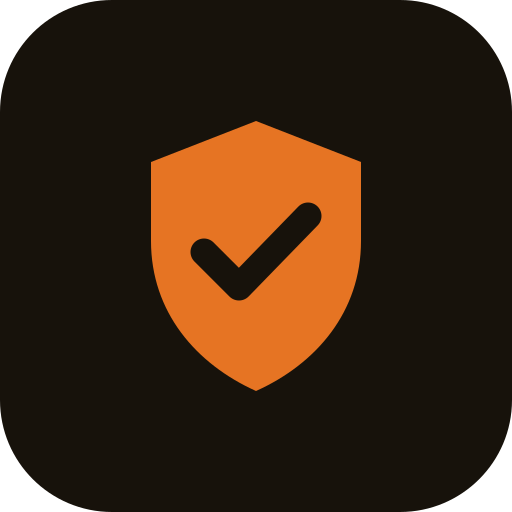
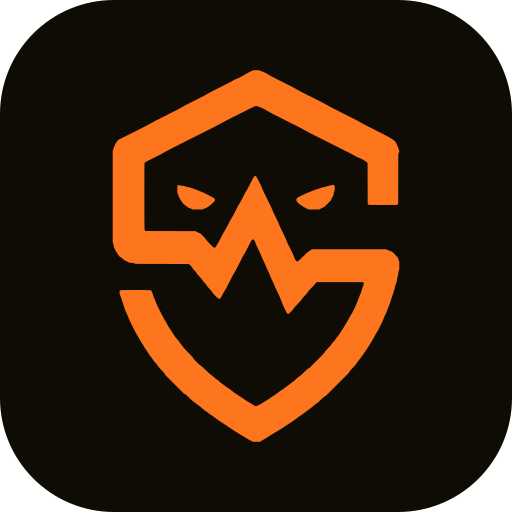
brand: replace the beacon dot with the shield mark
The header and footer lockups carried a pulsing CSS dot, not a logo. They
now carry the real mark, inline so it inherits currentColor and works on
both themes.

Three things the artwork needed before it could sit next to the wordmark:

- The delivered 0 0 512 512 viewBox is ~13% empty on each side. Measured
  with getBBox and cropped to the ink, so a CSS height is the height of
  the drawing and the gap to the wordmark is the gap it looks like.

- Cap height for this font stack measures 0.7254em, not the 0.72em the
  brief estimated. Sized at 0.725em on align-items: baseline, which puts
  the foot on the baseline (0.00px) and the top on the cap line (0.02px).

- Rasterised at 13/16/20/24px, the full drawing silts up below ~24px, and
  the header needs 13px. The path splits into exactly three subpaths --
  outline plus the two eye counters -- so the simple variant drops the
  eyes and fattens what is left. Header, footer and the 32px favicon use
  it; the larger icons and the OG lockup keep the full drawing.

The beacon's ping survives as a radial halo behind the shield, reusing its
2.6s duration, its easing and its prefers-reduced-motion block. The dot
itself stays where it still reads as a live indicator, in the digest mock.

Geometry lives in one module, so the icon generator and the components
draw from the same source, and npm run og rebuilds every raster from it.
The path is defined once per page as a <symbol> and referenced with <use>:
[…]

diff --git a/src/data/brandmark.js b/src/data/brandmark.js
@@ -1,0 +1,78 @@
+// Brand mark geometry — the Sentinely shield.
+//
+// Source of truth: docs/brand/sentinely-mono.svg (single compact path,
+// fill-rule evenodd). Regenerate this file from it if the artwork changes.
+//
+// Two variants, because the mark has to survive being set at cap height:
+//
+//  · markFull   — the drawing as delivered: shield, eyes, pulse line. Legible
+//                  from roughly 24px tall upwards.
+//  · markSimple — the same outline with the two eye counters dropped and the
+//                  remaining strokes fattened (a stroke painted in the fill
+//                  colour). Holds together down to ~13px, which is what the
+//                  header needs. Below ~20px tall, use this one.
+//
+// Both viewBoxes are cropped to the ink — the delivered 0 0 512 512 box carries
+// ~13% empty margin on each side, which would push the wordmark away and make
+// the mark read optically smaller than the S it sits next to. Cropping means a
+// CSS height is exactly the height of the drawing (the simple variant's box is
+// grown by half the stroke width so the fattened edge is not clipped).
+
+/** @typedef {{ id: string, viewBox: string, d: string, strokeWidth: number, ratio: number }} MarkVariant */
+
+const SIMPLE_STROKE = 16;
+
+/** @type {MarkVariant} */
+export const markFull = {
+  id: 'brandmark-full',
+  viewBox: '67 11 378 490',
+  strokeWidth: 0,
+  ratio: 378 / 490,
+  d: 'M251.99 11.48c-1.7.56-9.74 4.76-10.92 5.71-1.56 1.27-9.89 5.45-11.7 5.9a7 7 0 0 0-3.41 1.71c-.73.58-5.69 3.18-16.98 8.81-12.45 6.23-16.21 8.19-17.17 8.96-.95.76-4.72 2.72-17.16 8.95s-16.22 8.19-17.17 8.96c-.95.76-5.24 2.98-20.15 10.45s-19.2 9.68-20.15 10.45-5.54 3.13-21.83 11.29l-20.62 10.31-1.25 1.31c-1.44 1.49-4.46 7.24-4.82 9.14-.09.54-.44 1.59-.78 2.34l-.61 1.34V238.2l.61 1.39a8 8 0 0 1 .78 3.07l.17 1.7 1.66 3.36a31 31 0 0 0 2.63 4.55c.53.68 1.27 1.78 1.65 2.49.74 1.43 1.32 1.97 2.87 2.78.6.29 1.94 1.3 2.99 2.23l1.88 1.7 3.43 1.7 3.42 1.68 2.39.13 2.38.13 1.4.64 1.4.63 35.17.09 35.18.1.74.39c1.1.6 2.95 2.61 3.64 3.97.39.8 1.33 1.96 2.91 3.68a22 22 0 0 1 3.12 3.88c.58 1.04 1.57 2.22 3.81 4.57 2.22 2.33 3.17 3.47 3.6 4.31q.57 1.15 2.91 3.66a23 23 0 0 1 3.11 3.88c.58 1.04 1.55 2.22 3.79 4.55 2.33 2.45 3.17 3.45 3.71 4.5.97 1.85 6.96 7.91 8.12 8.23 1.94.52 2.54-.08 5.11-5.19a42 42 0 0 1 3.1-5.45c.73-.91 2.24-3.73 5.97-11.19 3.75-7.5 5.24-10.28 5.97-11.2.75-.93 2.35-3.95 6.72-12.69 4.37-8.71 5.97-11.77 6.72-12.68.71-.9 2.1-3.49 5.33-9.93 4.74-9.44 4.91-9.7 6.33-9.7 1.27 0 2.83 2.25 3.26 4.7.13.73 1.24 3.15 3.74 8.21 2.5 5.05 3.6 7.48 3.73 8.21.13.71 1.06 2.82 2.98 6.71s2.86 6.01 2.99 6.72 1.06 2.84 2.98 6.72c1.93 3.88 2.86 6.01 2.99 6.72s1.06 2.83 2.98 6.71c1.93 3.9 2.86 6.01 2.99 6.72.13.73 1.23 3.15 3.73 8.21 2.48 5 3.6 7.5 3.73 8.21.12.58.77 2.2 1.5 3.73a23 23 0 0 1 1.49 3.73c.2 1.25 5.32 11.63 6.04 12.3.88.82 1.74.63 3.29-.75 2.26-2.01 4.98-5.11 5.61-6.34.45-.91 1.52-2.11 5.12-5.8 3.77-3.87 4.66-4.89 5.24-5.99.52-1.01 1.4-2.05 3.69-4.46 2.24-2.33 3.21-3.51 3.79-4.55.66-1.16 1.61-2.24 5.11-5.83 2.65-2.7 4.65-4.9 5.14-5.67a7 7 0 0 1 1.32-1.58l.5-.34 29.78-.06c16.37-.03 30.14 0 30.59.06q2.44.38 1.3 3.3c-.2.52-.45 1.38-.54 1.87-.11.5-.43 1.49-.75 2.2-.31.71-.65 1.72-.74 2.24s-.43 1.53-.75 2.24-.65 1.73-.74 2.27c-.12.55-.79 2.21-1.5 3.7a24 24 0 0 0-1.49 3.73c-.11.56-.78 2.24-1.49 3.73a23 23 0 0 0-1.5 3.73c-.26 1.53-6.15 13.33-7.46 14.93a38 38 0 0 0-2.98 5.23 37 37 0 0 1-2.99 5.22 26 26 0 0 0-2.24 3.73 26 26 0 0 1-2.24 3.73c-.54.68-1.21 1.68-1.49 2.24s-.95 1.57-1.49 2.24-1.22 1.7-1.51 2.28c-.3.6-1.31 1.92-2.22 2.95a17 17 0 0 0-2.24 3q-.59 1.13-2.99 3.71c-1.62 1.76-2.59 2.97-2.98 3.74-.45.89-1.46 2.05-4.41 5.09-3.1 3.21-3.94 4.18-4.48 5.26-.61 1.18-1.64 2.28-10.11 10.77l-9.44 9.46-1.46.78c-1.25.67-2.12 1.44-6 5.24-3.72 3.62-4.84 4.61-5.98 5.25-1.04.58-2.22 1.56-4.57 3.8-2.29 2.19-3.47 3.18-4.29 3.61a18 18 0 0 0-3 2.23 19 19 0 0 1-2.99 2.24c-.61.32-1.96 1.33-2.98 2.24a19 19 0 0 1-2.95 2.22c-.58.3-1.61.97-2.28 1.51-.67.55-1.7 1.22-2.27 1.52-.6.29-1.93 1.3-2.95 2.22a20 20 0 0 1-2.95 2.22c-.58.29-1.6.97-2.28 1.51s-1.68 1.21-2.24 1.49-1.56.95-2.23 1.49c-.68.54-1.68 1.22-2.24 1.5s-1.57.95-2.24 1.49a26 26 0 0 1-3.73 2.24 27 27 0 0 0-3.74 2.24c-1.77 1.43-6.27 3.62-7.42 3.62s-2.91-.82-4.52-2.13a26 26 0 0 0-3.73-2.24 26 26 0 0 1-3.73-2.24 16 16 0 0 0-2.24-1.49c-.56-.28-1.57-.95-2.24-1.49a15 15 0 0 0-2.24-1.5c-.56-.28-1.57-.95-2.24-1.49a16 16 0 0 0-2.24-1.49c-.56-.28-1.56-.95-2.24-1.5a17 17 0 0 0-2.27-1.51c-.6-.3-1.92-1.3-2.95-2.22a20 20 0 0 0-2.95-2.22c-.58-.3-1.6-.97-2.28-1.51a17 17 0 0 0-2.27-1.51c-.6-.3-1.92-1.31-2.95-2.22a19 19 0 0 0-3-2.24q-1.13-.58-3.72-2.98-2.59-2.43-3.73-2.99t-3.73-2.99a21 21 0 0 0-3.75-3c-.95-.47-2.15-1.55-6.53-5.84-4.7-4.61-5.54-5.36-6.85-6.06-2.14-1.16-9.5-8.55-10.58-10.62-.63-1.21-1.44-2.11-6.73-7.48-4.95-5.02-6.11-6.31-6.59-7.26a19 19 0 0 0-2.26-3.02 19 19 0 0 1-2.24-3.01 22 22 0 0 0-2.98-3.71c-1.55-1.66-2.62-2.97-2.95-3.68-.32-.59-.99-1.62-1.53-2.29a16 16 0 0 1-1.49-2.24 16 16 0 0 0-1.5-2.24 16 16 0 0 1-1.49-2.24c-.28-.56-.95-1.57-1.49-2.24-.62-.76-1.7-2.67-2.99-5.22a39 39 0 0 0-2.98-5.23c-1.33-1.64-11.68-22.33-11.94-23.88-.12-.58-.75-2.2-1.5-3.73a26 26 0 0 1-1.49-3.7c-.09-.54-.43-1.56-.75-2.27-.31-.71-.65-1.72-.74-2.26-.36-1.87-1.38-3.08-2.97-3.53-1.03-.28-37.99-.22-38.81.06-1.61.56-1.96 3.1-.8 5.67.33.75.69 1.77.78 2.3s.43 1.53.75 2.23c.31.71.65 1.72.74 2.24.1.53.43 1.53.75 2.24s.65 1.72.75 2.24.43 1.53.74 2.24c.32.71.66 1.72.75 2.24s.43 1.53.75 2.24c.31.71.65 1.73.74 2.28.11.59.99 2.64 2.24 5.18 1.34 2.75 2.13 4.56 2.24 5.23.26 1.55 10.6 22.22 11.94 23.88a26 26 0 0 1 2.24 3.73 26 26 0 0 0 2.24 3.73 27 27 0 0 1 2.24 3.74 26 26 0 0 0 2.24 3.73c.54.67 1.21 1.68 1.49 2.24s.95 1.56 1.49 2.24c.54.67 1.22 1.67 1.5 2.23s.95 1.57 1.49 2.24 1.21 1.7 1.51 2.28c.3.6 1.31 1.92 2.22 2.95a19 19 0 0 1 2.24 3q.59 1.14 2.97 3.7a22 22 0 0 1 3.08 3.86c.54 1.04 1.43 2.09 4.45 5.22 3.18 3.27 3.92 4.15 4.52 5.3l.73 1.4 12.22 12.24 12.24 12.22 1.4.73c1.21.62 2.03 1.35 6.03 5.24 3.82 3.74 4.87 4.65 5.95 5.21.73.39 2.11 1.4 3.15 2.35 1.03.92 2.37 1.92 2.99 2.22q1.12.58 3.71 2.99a22 22 0 0 0 3.71 2.98c.62.3 1.98 1.33 3.01 2.24s2.35 1.92 2.95 2.22c.57.3 1.6.97 2.27 1.51s1.7 1.22 2.28 1.52c.6.29 1.92 1.3 2.95 2.22a20 20 0 0 0 2.94 2.22c.58.29 1.61.97 2.28 1.51s1.68 1.21 2.24 1.49 1.57.95 2.24 1.49a16 16 0 0 0 2.24 1.5c.56.28 1.57.95 2.24 1.49s1.68 1.21 2.24 1.49 1.56.95 2.23 1.49c.68.54 1.68 1.22 2.24 1.5s1.57.95 2.24 1.49 1.68 1.21 2.24 1.49 1.57.95 2.24 1.49a25 25 0 0 0 3.73 2.24 26 26 0 0 1 3.73 2.24 27 27 0 0 0 3.74 2.24 26 26 0 0 1 3.73 2.24c.76.62 2.5 1.62 4.64 2.69l3.44 1.7h9.18l.65-.36c.36-.19 1.12-.73 1.68-1.19s2.15-1.4 3.55-2.09a26 26 0 0 0 3.73-2.24c.67-.54 1.68-1.21 2.24-1.49s1.56-.96 2.24-1.5a26 26 0 0 1 3.73-2.24 25 25 0 0 0 3.73-2.24 26 26 0 0 1 3.73-2.23c1.38-.7 3.06-1.7 3.73-2.24a16 16 0 0 1 2.24-1.5c.56-.28 1.57-.95 2.24-1.49s1.68-1.21 2.24-1.49 1.57-.95 2.24-1.49c.67-.55 1.68-1.22 2.24-1.5s1.57-.95 2.24-1.49a17 17 0 0 1 2.27-1.51 19 19 0 0 0 2.95-2.22 19 19 0 0 1 2.95-2.22c.58-.3 1.6-.97 2.28-1.51s1.69-1.22 2.27-1.51c.6-.3 1.92-1.31 2.95-2.23a19 19 0 0 1 2.99-2.23c.61-.32 1.95-1.33 2.98-2.24a18 18 0 0 1 3.01-2.24q1.12-.58 3.69-2.97a22 22 0 0 1 3.86-3.08c1.05-.54 2.09-1.43 5.23-4.46 3.28-3.19 4.14-3.92 5.3-4.51l1.4-.73 15.22-15.21 15.21-15.22.73-1.4c.59-1.16 1.32-2.02 4.51-5.3 3-3.12 3.92-4.2 4.46-5.21.37-.71 1.4-2.09 2.33-3.13a19 19 0 0 0 2.22-2.97c.32-.61 1.33-1.96 2.24-2.98a19 19 0 0 0 2.22-2.95c.3-.58.97-1.61 1.51-2.28.55-.67 1.22-1.68 1.5-2.24s.95-1.57 1.49-2.24 1.21-1.68 1.49-2.24.95-1.56 1.49-2.24a25 25 0 0 0 2.24-3.73 26 26 0 0 1 2.24-3.73c.62-.76 1.7-2.67 2.99-5.22a39 39 0 0 1 2.98-5.23c1.33-1.64 8.7-16.38 8.96-17.91.11-.67.9-2.48 2.24-5.22 1.31-2.67 2.13-4.58 2.24-5.23.11-.58.76-2.22 1.49-3.73a25 25 0 0 0 1.49-3.7c.1-.54.43-1.56.75-2.27s.65-1.72.75-2.24.43-1.53.74-2.24c.32-.71.66-1.72.75-2.24s.43-1.53.75-2.24c.31-.71.65-1.71.74-2.24.1-.52.43-1.53.75-2.24s.65-1.71.74-2.24c.1-.52.45-1.54.77-2.27.41-.93.62-1.77.73-2.95s.31-2.02.72-2.95c.32-.73.68-1.75.77-2.27.09-.53.45-1.55.76-2.3.55-1.19.62-1.6.73-3.68s.19-2.48.75-3.73.63-1.64.75-3.73l.13-2.33.63-1.4.63-1.4v-10.64l-.61-1.34a12 12 0 0 1-.78-2.28c-.3-1.6-.83-2.31-4.2-5.67l-3.27-3.26-1.81-.94a18 18 0 0 0-3.34-1.32c-.82-.21-1.99-.62-2.61-.9l-1.1-.52H329.8l-.66.36c-.35.18-1.1.72-1.64 1.15-.54.45-1.59 1.12-2.31 1.51-1.12.58-2.19 1.53-7.35 6.63-6.96 6.86-7.15 6.99-8.98 5.63-.76-.58-2.59-4.21-2.85-5.67-.13-.75-1.55-3.81-5.23-11.19-3.69-7.45-5.09-10.45-5.22-11.2s-1.37-3.43-4.48-9.7c-3.1-6.27-4.35-8.96-4.48-9.71-.13-.74-1.38-3.43-4.48-9.7-3.11-6.29-4.35-8.95-4.48-9.7-.13-.77-1.84-4.4-6.71-14.18-4.89-9.85-6.59-13.42-6.72-14.18-.22-1.38-7.44-15.9-8.12-16.35-.69-.45-1.68-.37-2.42.21-.54.41-1.4 1.99-5.02 9.2-3.23 6.43-4.63 9.03-5.34 9.92-.71.88-1.96 3.19-4.48 8.21-2.52 5.04-3.77 7.34-4.47 8.21-.73.9-2.09 3.44-5.23 9.71-3.13 6.27-4.5 8.8-5.22 9.7-.71.88-1.96 3.17-4.48 8.21s-3.77 7.33-4.48 8.21-1.96 3.17-4.48 8.21c-2.48 4.94-3.79 7.35-4.46 8.19-.52.65-1.47 2.2-2.11 3.43-1.34 2.6-1.62 2.84-3.11 2.76-.84-.03-10.26-9.62-11.22-11.42-.65-1.21-1.26-1.9-3.62-4.21l-2.81-2.76-3.44-1.68-3.43-1.68-32.9-.1-32.89-.09-.52-.39a2.6 2.6 0 0 1-.75-1.03c-.3-.84-.34-86.84-.06-87.9.32-1.1.79-1.36 13.79-7.87 9.52-4.78 12.71-6.46 13.64-7.21.97-.78 8.12-4.42 36.57-18.65 28.52-14.26 35.61-17.88 36.58-18.66 1.28-1.03 43.84-22.51 45.49-22.93 2.01-.56 12.14 3.63 15.71 6.51.97.78 6.02 3.37 24.63 12.69 18.62 9.31 23.66 11.9 24.63 12.68.97.79 7.55 4.15 33.58 17.17 23.64 11.83 32.66 16.42 33.4 17.02a7 7 0 0 0 3.42 1.71c1.64.39 7.2 3.17 8.52 4.26.56.46 1.52 1.14 2.09 1.51a5 5 0 0 1 1.4 1.19l.34.51.09 26.81.1 26.83.39.52c.72.99.31.97 19.66.97s18.94.02 19.67-.97l.39-.52.1-32.88.09-32.87.61-1.35c.79-1.75.81-2.8.04-4.53-.32-.71-.65-1.74-.74-2.28-.12-.58-.88-2.4-1.87-4.42-2.3-4.63-3.02-5.41-6.9-7.37a31 31 0 0 1-3.92-2.35c-.95-.77-5.08-2.91-18.66-9.7-13.68-6.85-17.71-8.94-18.66-9.71-.95-.76-5.49-3.11-21.64-11.19-16.16-8.08-20.7-10.43-21.65-11.2s-5.24-2.98-20.15-10.45-19.2-9.68-20.15-10.44c-.95-.77-4.98-2.86-18.66-9.71-13.68-6.83-17.71-8.93-18.66-9.7-1.6-1.29-6.94-3.96-8.9-4.46-.82-.2-1.98-.61-2.59-.89l-1.1-.53-3.55-.03c-2.52-.04-3.75.01-4.29.2m104.02 150.95c-.35.13-.99.39-1.38.58-.41.17-1.47.39-2.37.47-1.16.11-2 .31-2.97.74s-1.81.64-3 .75q-1.66.17-2.72.63c-.58.28-1.72.67-2.54.88s-1.81.54-2.18.73-1.39.52-2.24.74c-.86.23-1.87.56-2.24.75s-1.38.52-2.24.75c-.84.22-2.52.87-3.73 1.49-1.22.6-2.9 1.27-3.74 1.49-1.56.39-12.8 5.84-14.14 6.85a3.8 3.8 0 0 0-.99 4.5c.58 1.1 4.05 4.38 5.34 5.03.61.3 1.66.99 2.33 1.53.77.62 2.5 1.63 4.65 2.69l3.43 1.7h13.71l3.66-1.83 3.66-1.81 4.1-4.1 4.11-4.11 1.77-3.6 1.79-3.58.17-1.7c.11-1.31.3-2.03.77-3.08l.61-1.38.08-2.29c.13-4.04-.19-4.84-2.02-5.01a4 4 0 0 0-1.68.19m-202.43.09c-.24.08-.63.36-.84.64l-.39.52v8.85l.62 1.34c.33.75.69 1.79.78 2.33.26 1.38 1.83 4.5 2.98 5.93a14 14 0 0 1 1.53 2.34c.83 1.62 4.09 4.89 5.77 5.78.69.36 1.72 1.03 2.26 1.48a6.6 6.6 0 0 0 3.13 1.6c.56.13 1.63.49 2.34.82l1.3.58h12.13l1.31-.58c.72-.33 1.77-.69 2.33-.82 1.3-.3 1.9-.62 3.15-1.62.56-.47 1.51-1.09 2.13-1.38 1.21-.62 5.24-4.26 6.96-6.29 1.45-1.7 1.36-2.48-.45-4.18-1.31-1.23-15.47-8.34-17.76-8.92a26 26 0 0 1-3.73-1.49 24 24 0 0 0-3.74-1.5c-.85-.22-1.86-.56-2.24-.74-.37-.19-1.36-.52-2.18-.73s-1.96-.6-2.54-.88a9 9 0 0 0-2.72-.63 9 9 0 0 1-3.02-.77c-1.23-.54-1.65-.61-3.72-.72a15 15 0 0 1-2.89-.38c-1.12-.46-2.07-.69-2.5-.58',
+};
+
+/** @type {MarkVariant} */
+export const markSimple = {
+  id: 'brandmark-simple',
+  viewBox: `${67 - SIMPLE_STROKE / 2} ${11 - SIMPLE_STROKE / 2} ${378 + SIMPLE_STROKE} ${490 + SIMPLE_STROKE}`,
+  strokeWidth: SIMPLE_STROKE,
+  ratio: (378 + SIMPLE_STROKE) / (490 + SIMPLE_STROKE),
+  d: 'M251.99 11.48c-1.7.56-9.74 4.76-10.92 5.71-1.56 1.27-9.89 5.45-11.7 5.9a7 7 0 0 0-3.41 1.71c-.73.58-5.69 3.18-16.98 8.81-12.45 6.23-16.21 8.19-17.17 8.96-.95.76-4.72 2.72-17.16 8.95s-16.22 8.19-17.17 8.96c-.95.76-5.24 2.98-20.15 10.45s-19.2 9.68-20.15 10.45-5.54 3.13-21.83 11.29l-20.62 10.31-1.25 1.31c-1.44 1.49-4.46 7.24-4.82 9.14-.09.54-.44 1.59-.78 2.34l-.61 1.34V238.2l.61 1.39a8 8 0 0 1 .78 3.07l.17 1.7 1.66 3.36a31 31 0 0 0 2.63 4.55c.53.68 1.27 1.78 1.65 2.49.74 1.43 1.32 1.97 2.87 2.78.6.29 1.94 1.3 2.99 2.23l1.88 1.7 3.43 1.7 3.42 1.68 2.39.13 2.38.13 1.4.64 1.4.63 35.17.09 35.18.1.74.39c1.1.6 2.95 2.61 3.64 3.97.39.8 1.33 1.96 2.91 3.68a22 22 0 0 1 3.12 3.88c.58 1.04 1.57 2.22 3.81 4.57 2.22 2.33 3.17 3.47 3.6 4.31q.57 1.15 2.91 3.66a23 23 0 0 1 3.11 3.88c.58 1.04 1.55 2.22 3.79 4.55 2.33 2.45 3.17 3.45 3.71 4.5.97 1.85 6.96 7.91 8.12 8.23 1.94.52 2.54-.08 5.11-5.19a42 42 0 0 1 3.1-5.45c.73-.91 2.24-3.73 5.97-11.19 3.75-7.5 5.24-10.28 5.97-11.2.75-.93 2.35-3.95 6.72-12.69 4.37-8.71 5.97-11.77 6.72-12.68.71-.9 2.1-3.49 5.33-9.93 4.74-9.44 4.91-9.7 6.33-9.7 1.27 0 2.83 2.25 3.26 4.7.13.73 1.24 3.15 3.74 8.21 2.5 5.05 3.6 7.48 3.73 8.21.13.71 1.06 2.82 2.98 6.71s2.86 6.01 2.99 6.72 1.06 2.84 2.98 6.72c1.93 3.88 2.86 6.01 2.99 6.72s1.06 2.83 2.98 6.71c1.93 3.9 2.86 6.01 2.99 6.72.13.73 1.23 3.15 3.73 8.21 2.48 5 3.6 7.5 3.73 8.21.12.58.77 2.2 1.5 3.73a23 23 0 0 1 1.49 3.73c.2 1.25 5.32 11.63 6.04 12.3.88.82 1.74.63 3.29-.75 2.26-2.01 4.98-5.11 5.61-6.34.45-.91 1.52-2.11 5.12-5.8 3.77-3.87 4.66-4.89 5.24-5.99.52-1.01 1.4-2.05 3.69-4.46 2.24-2.33 3.21-3.51 3.79-4.55.66-1.16 1.61-2.24 5.11-5.83 2.65-2.7 4.65-4.9 5.14-5.67a7 7 0 0 1 1.32-1.58l.5-.34 29.78-.06c16.37-.03 30.14 0 30.59.06q2.44.38 1.3 3.3c-.2.52-.45 1.38-.54 1.87-.11.5-.43 1.49-.75 2.2-.31.71-.65 1.72-.74 2.24s-.43 1.53-.75 2.24-.65 1.73-.74 2.27c-.12.55-.79 2.21-1.5 3.7a24 24 0 0 0-1.49 3.73c-.11.56-.78 2.24-1.49 3.73a23 23 0 0 0-1.5 3.73c-.26 1.53-6.15 13.33-7.46 14.93a38 38 0 0 0-2.98 5.23 37 37 0 0 1-2.99 5.22 26 26 0 0 0-2.24 3.73 26 26 0 0 1-2.24 3.73c-.54.68-1.21 1.68-1.49 2.24s-.95 1.57-1.49 2.24-1.22 1.7-1.51 2.28c-.3.6-1.31 1.92-2.22 2.95a17 17 0 0 0-2.24 3q-.59 1.13-2.99 3.71c-1.62 1.76-2.59 2.97-2.98 3.74-.45.89-1.46 2.05-4.41 5.09-3.1 3.21-3.94 4.18-4.48 5.26-.61 1.18-1.64 2.28-10.11 10.77l-9.44 9.46-1.46.78c-1.25.67-2.12 1.44-6 5.24-3.72 3.62-4.84 4.61-5.98 5.25-1.04.58-2.22 1.56-4.57 3.8-2.29 2.19-3.47 3.18-4.29 3.61a18 18 0 0 0-3 2.23 19 19 0 0 1-2.99 2.24c-.61.32-1.96 1.33-2.98 2.24a19 19 0 0 1-2.95 2.22c-.58.3-1.61.97-2.28 1.51-.67.55-1.7 1.22-2.27 1.52-.6.29-1.93 1.3-2.95 2.22a20 20 0 0 1-2.95 2.22c-.58.29-1.6.97-2.28 1.51s-1.68 1.21-2.24 1.49-1.56.95-2.23 1.49c-.68.54-1.68 1.22-2.24 1.5s-1.57.95-2.24 1.49a26 26 0 0 1-3.73 2.24 27 27 0 0 0-3.74 2.24c-1.77 1.43-6.27 3.62-7.42 3.62s-2.91-.82-4.52-2.13a26 26 0 0 0-3.73-2.24 26 26 0 0 1-3.73-2.24 16 16 0 0 0-2.24-1.49c-.56-.28-1.57-.95-2.24-1.49a15 15 0 0 0-2.24-1.5c-.56-.28-1.57-.95-2.24-1.49a16 16 0 0 0-2.24-1.49c-.56-.28-1.56-.95-2.24-1.5a17 17 0 0 0-2.27-1.51c-.6-.3-1.92-1.3-2.95-2.22a20 20 0 0 0-2.95-2.22c-.58-.3-1.6-.97-2.28-1.51a17 17 0 0 0-2.27-1.51c-.6-.3-1.92-1.31-2.95-2.22a19 19 0 0 0-3-2.24q-1.13-.58-3.72-2.98-2.59-2.43-3.73-2.99t-3.73-2.99a21 21 0 0 0-3.75-3c-.95-.47-2.15-1.55-6.53-5.84-4.7-4.61-5.54-5.36-6.85-6.06-2.14-1.16-9.5-8.55-10.58-10.62-.63-1.21-1.44-2.11-6.73-7.48-4.95-5.02-6.11-6.31-6.59-7.26a19 19 0 0 0-2.26-3.02 19 19 0 0 1-2.24-3.01 22 22 0 0 0-2.98-3.71c-1.55-1.66-2.62-2.97-2.95-3.68-.32-.59-.99-1.62-1.53-2.29a16 16 0 0 1-1.49-2.24 16 16 0 0 0-1.5-2.24 16 16 0 0 1-1.49-2.24c-.28-.56-.95-1.57-1.49-2.24-.62-.76-1.7-2.67-2.99-5.22a39 39 0 0 0-2.98-5.23c-1.33-1.64-11.68-22.33-11.94-23.88-.12-.58-.75-2.2-1.5-3.73a26 26 0 0 1-1.49-3.7c-.09-.54-.43-1.56-.75-2.27-.31-.71-.65-1.72-.74-2.26-.36-1.87-1.38-3.08-2.97-3.53-1.03-.28-37.99-.22-38.81.06-1.61.56-1.96 3.1-.8 5.67.33.75.69 1.77.78 2.3s.43 1.53.75 2.23c.31.71.65 1.72.74 2.24.1.53.43 1.53.75 2.24s.65 1.72.75 2.24.43 1.53.74 2.24c.32.71.66 1.72.75 2.24s.43 1.53.75 2.24c.31.71.65 1.73.74 2.28.11.59.99 2.64 2.24 5.18 1.34 2.75 2.13 4.56 2.24 5.23.26 1.55 10.6 22.22 11.94 23.88a26 26 0 0 1 2.24 3.73 26 26 0 0 0 2.24 3.73 27 27 0 0 1 2.24 3.74 26 26 0 0 0 2.24 3.73c.54.67 1.21 1.68 1.49 2.24s.95 1.56 1.49 2.24c.54.67 1.22 1.67 1.5 2.23s.95 1.57 1.49 2.24 1.21 1.7 1.51 2.28c.3.6 1.31 1.92 2.22 2.95a19 19 0 0 1 2.24 3q.59 1.14 2.97 3.7a22 22 0 0 1 3.08 3.86c.54 1.04 1.43 2.09 4.45 5.22 3.18 3.27 3.92 4.15 4.52 5.3l.73 1.4 12.22 12.24 12.24 12.22 1.4.73c1.21.62 2.03 1.35 6.03 5.24 3.82 3.74 4.87 4.65 5.95 5.21.73.39 2.11 1.4 3.15 2.35 1.03.92 2.37 1.92 2.99 2.22q1.12.58 3.71 2.99a22 22 0 0 0 3.71 2.98c.62.3 1.98 1.33 3.01 2.24s2.35 1.92 2.95 2.22c.57.3 1.6.97 2.27 1.51s1.7 1.22 2.28 1.52c.6.29 1.92 1.3 2.95 2.22a20 20 0 0 0 2.94 2.22c.58.29 1.61.97 2.28 1.51s1.68 1.21 2.24 1.49 1.57.95 2.24 1.49a16 16 0 0 0 2.24 1.5c.56.28 1.57.95 2.24 1.49s1.68 1.21 2.24 1.49 1.56.95 2.23 1.49c.68.54 1.68 1.22 2.24 1.5s1.57.95 2.24 1.49 1.68 1.21 2.24 1.49 1.57.95 2.24 1.49a25 25 0 0 0 3.73 2.24 26 26 0 0 1 3.73 2.24 27 27 0 0 0 3.74 2.24 26 26 0 0 1 3.73 2.24c.76.62 2.5 1.62 4.64 2.69l3.44 1.7h9.18l.65-.36c.36-.19 1.12-.73 1.68-1.19s2.15-1.4 3.55-2.09a26 26 0 0 0 3.73-2.24c.67-.54 1.68-1.21 2.24-1.49s1.56-.96 2.24-1.5a26 26 0 0 1 3.73-2.24 25 25 0 0 0 3.73-2.24 26 26 0 0 1 3.73-2.23c1.38-.7 3.06-1.7 3.73-2.24a16 16 0 0 1 2.24-1.5c.56-.28 1.57-.95 2.24-1.49s1.68-1.21 2.24-1.49 1.57-.95 2.24-1.49c.67-.55 1.68-1.22 2.24-1.5s1.57-.95 2.24-1.49a17 17 0 0 1 2.27-1.51 19 19 0 0 0 2.95-2.22 19 19 0 0 1 2.95-2.22c.58-.3 1.6-.97 2.28-1.51s1.69-1.22 2.27-1.51c.6-.3 1.92-1.31 2.95-2.23a19 19 0 0 1 2.99-2.23c.61-.32 1.95-1.33 2.98-2.24a18 18 0 0 1 3.01-2.24q1.12-.58 3.69-2.97a22 22 0 0 1 3.86-3.08c1.05-.54 2.09-1.43 5.23-4.46 3.28-3.19 4.14-3.92 5.3-4.51l1.4-.73 15.22-15.21 15.21-15.22.73-1.4c.59-1.16 1.32-2.02 4.51-5.3 3-3.12 3.92-4.2 4.46-5.21.37-.71 1.4-2.09 2.33-3.13a19 19 0 0 0 2.22-2.97c.32-.61 1.33-1.96 2.24-2.98a19 19 0 0 0 2.22-2.95c.3-.58.97-1.61 1.51-2.28.55-.67 1.22-1.68 1.5-2.24s.95-1.57 1.49-2.24 1.21-1.68 1.49-2.24.95-1.56 1.49-2.24a25 25 0 0 0 2.24-3.73 26 26 0 0 1 2.24-3.73c.62-.76 1.7-2.67 2.99-5.22a39 39 0 0 1 2.98-5.23c1.33-1.64 8.7-16.38 8.96-17.91.11-.67.9-2.48 2.24-5.22 1.31-2.67 2.13-4.58 2.24-5.23.11-.58.76-2.22 1.49-3.73a25 25 0 0 0 1.49-3.7c.1-.54.43-1.56.75-2.27s.65-1.72.75-2.24.43-1.53.74-2.24c.32-.71.66-1.72.75-2.24s.43-1.53.75-2.24c.31-.71.65-1.71.74-2.24.1-.52.43-1.53.75-2.24s.65-1.71.74-2.24c.1-.52.45-1.54.77-2.27.41-.93.62-1.77.73-2.95s.31-2.02.72-2.95c.32-.73.68-1.75.77-2.27.09-.53.45-1.55.76-2.3.55-1.19.62-1.6.73-3.68s.19-2.48.75-3.73.63-1.64.75-3.73l.13-2.33.63-1.4.63-1.4v-10.64l-.61-1.34a12 12 0 0 1-.78-2.28c-.3-1.6-.83-2.31-4.2-5.67l-3.27-3.26-1.81-.94a18 18 0 0 0-3.34-1.32c-.82-.21-1.99-.62-2.61-.9l-1.1-.52H329.8l-.66.36c-.35.18-1.1.72-1.64 1.15-.54.45-1.59 1.12-2.31 1.51-1.12.58-2.19 1.53-7.35 6.63-6.96 6.86-7.15 6.99-8.98 5.63-.76-.58-2.59-4.21-2.85-5.67-.13-.75-1.55-3.81-5.23-11.19-3.69-7.45-5.09-10.45-5.22-11.2s-1.37-3.43-4.48-9.7c-3.1-6.27-4.35-8.96-4.48-9.71-.13-.74-1.38-3.43-4.48-9.7-3.11-6.29-4.35-8.95-4.48-9.7-.13-.77-1.84-4.4-6.71-14.18-4.89-9.85-6.59-13.42-6.72-14.18-.22-1.38-7.44-15.9-8.12-16.35-.69-.45-1.68-.37-2.42.21-.54.41-1.4 1.99-5.02 9.2-3.23 6.43-4.63 9.03-5.34 9.92-.71.88-1.96 3.19-4.48 8.21-2.52 5.04-3.77 7.34-4.47 8.21-.73.9-2.09 3.44-5.23 9.71-3.13 6.27-4.5 8.8-5.22 9.7-.71.88-1.96 3.17-4.48 8.21s-3.77 7.33-4.48 8.21-1.96 3.17-4.48 8.21c-2.48 4.94-3.79 7.35-4.46 8.19-.52.65-1.47 2.2-2.11 3.43-1.34 2.6-1.62 2.84-3.11 2.76-.84-.03-10.26-9.62-11.22-11.42-.65-1.21-1.26-1.9-3.62-4.21l-2.81-2.76-3.44-1.68-3.43-1.68-32.9-.1-32.89-.09-.52-.39a2.6 2.6 0 0 1-.75-1.03c-.3-.84-.34-86.84-.06-87.9.32-1.1.79-1.36 13.79-7.87 9.52-4.78 12.71-6.46 13.64-7.21.97-.78 8.12-4.42 36.57-18.65 28.52-14.26 35.61-17.88 36.58-18.66 1.28-1.03 43.84-22.51 45.49-22.93 2.01-.56 12.14 3.63 15.71 6.51.97.78 6.02 3.37 24.63 12.69 18.62 9.31 23.66 11.9 24.63 12.68.97.79 7.55 4.15 33.58 17.17 23.64 11.83 32.66 16.42 33.4 17.02a7 7 0 0 0 3.42 1.71c1.64.39 7.2 3.17 8.52 4.26.56.46 1.52 1.14 2.09 1.51a5 5 0 0 1 1.4 1.19l.34.51.09 26.81.1 26.83.39.52c.72.99.31.97 19.66.97s18.94.02 19.67-.97l.39-.52.1-32.88.09-32.87.61-1.35c.79-1.75.81-2.8.04-4.53-.32-.71-.65-1.74-.74-2.28-.12-.58-.88-2.4-1.87-4.42-2.3-4.63-3.02-5.41-6.9-7.37a31 31 0 0 1-3.92-2.35c-.95-.77-5.08-2.91-18.66-9.7-13.68-6.85-17.71-8.94-18.66-9.71-.95-.76-5.49-3.11-21.64-11.19-16.16-8.08-20.7-10.43-21.65-11.2s-5.24-2.98-20.15-10.45-19.2-9.68-20.15-10.44c-.95-.77-4.98-2.86-18.66-9.71-13.68-6.83-17.71-8.93-18.66-9.7-1.6-1.29-6.94-3.96-8.9-4.46-.82-.2-1.98-.61-2.59-.89l-1.1-.53-3.55-.03c-2.52-.04-3.75.01-4.29.2',
+};
+
+/** Colours baked into the standalone assets (see docs/brand/). */
+export const BRAND_ORANGE = '#fd751d';
+export const BADGE_BG = '#0f0c06';
+
+/** Badge proportions, measured off docs/brand/sentinely-icon.svg. */
+export const BADGE = { radius: 114 / 512, markHeight: 372.01 / 512 };
+
+/**
+ * The fattened edge of the simple variant is painted as a stroke in the fill
+ * colour — same shape, heavier line.
+ * @param {MarkVariant} variant
+ * @param {string} color
+ */
+function strokeAttrs(variant, color) {
+  return variant.strokeWidth
+    ? ` stroke="${color}" stroke-width="${variant.strokeWidth}" stroke-linejoin="round"`
+    : '';
+}
+
+/**
+ * The mark centred on the rounded dark badge — the icon/favicon lockup.
+ * @param {{ size?: number, variant?: MarkVariant, color?: string, background?: string }} [opts]
+ */
+export function badgeSvg({ size = 512, variant = markFull, color = BRAND_ORANGE, background = BADGE_BG } = {}) {
+  const [vx, vy, vw, vh] = variant.viewBox.split(' ').map(Number);
+  const scale = (size * BADGE.markHeight) / vh;
+  const x = (size - vw * scale) / 2 - vx * scale;
+  const y = (size - vh * scale) / 2 - vy * scale;
+  return (
+    `<svg xmlns="http://www.w3.org/2000/svg" viewBox="0 0 ${size} ${size}" fill="none">` +
+    `<rect width="${size}" height="${size}" rx="${+(size * BADGE.radius).toFixed(2)}" fill="${background}"/>` +
+    `<g transform="translate(${x.toFixed(3)} ${y.toFixed(3)}) scale(${scale.toFixed(6)})">` +
+    `<path fill="${color}" fill-rule="evenodd" clip-rule="evenodd"${strokeAttrs(variant, color)} d="${variant.d}"/>` +
+    '</g></svg>'
+  );
+}

diff --git a/README.md b/README.md
@@ -101,9 +101,22 @@ and dark and switched via `prefers-color-scheme` plus a `:root[data-theme="…"]
 override printed by the header theme toggle. Tailwind utilities map to the same
 variables via `@theme inline`, so `bg-surface`, `text-ink`, etc. follow the theme.
 
-- **Accent** = warm orange `#E67423` (CTAs, beacon, eyebrows, focus).
+- **Accent** = warm orange `#E67423` (CTAs, brand mark, eyebrows, focus).
 - **Green / red** are **semantic only** (DMARC pass/fail), never used as accent.
 - **Monospace** is a voice: eyebrows, labels, IPs, KPIs, prices.
+
+### Brand mark
+
+The shield beside the wordmark is `src/components/Brandmark.astro`: an inline SVG
+painted with `currentColor`, sized in `em` at the cap height of the wordmark
+(`0.725em`) and aligned on the baseline, so it stands exactly as tall as the S.
+Behind it a radial halo pulses on the same 2.6s / `cubic-bezier(.16,1,.3,1)` as
+the older `.beacon` dot, and stops under `prefers-reduced-motion`.
+
+Geometry lives in `src/data/brandmark.js`, lifted from `docs/brand/*.svg`, in two
+variants: `full` as drawn, and `simple` — eye counters dropped, strokes fattened —
+which is what anything under ~20px tall must use, including the header and the
+32px favicon. `npm run og` regenerates every raster asset from the same source.
 
 ---
 
